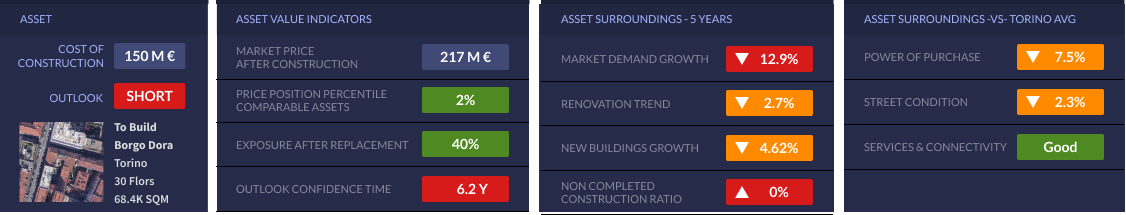
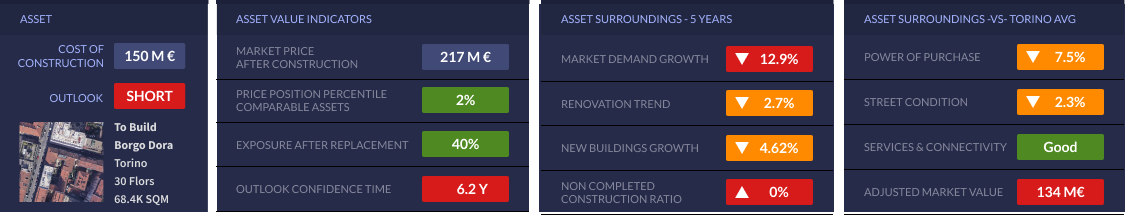
Updates and fixes

Changed region(s): [[0.746, 0.8093, 1.0, 1.0]]

diff --git a/alix-app/src/app/pages/restructuring/restructuring-detail/restructuring-detail.component.html b/alix-app/src/app/pages/restructuring/restructuring-detail/restructuring-detail.component.html
@@ -310,8 +310,8 @@
             <div class="restructuring-list">
               <div class="list-header">
                 <div class="title">Restructuring Assets Portfolio</div>
-                <div class="current-exposure">Current Exposure</div>
-                <div class="outlook">Outlook</div>
+                <div class="current-exposure">Market<br>Value</div>
+                <div class="outlook">Adjusted Market Value</div>
               </div>
               <div class="list-content">
                 <accordion>
@@ -321,11 +321,11 @@
                       <div class="title">30 Floors Borgo Dora > To build</div>
                       <div class="position">CPEO-14423</div>
                       <div class="current-exposure">
-                        <div class="val">98</div>
+                        <div class="val">217</div>
                         <div class="small">M€</div>
                       </div>
                       <div class="margin">
-                        <div class="val">98</div>
+                        <div class="val">134</div>
                         <div class="small">M€</div>
                       </div>
                       <div class="lab red">Short</div>
@@ -347,7 +347,7 @@
                         <div class="small">M€</div>
                       </div>
                       <div class="margin">
-                        <div class="val">7.1</div>
+                        <div class="val">132.1</div>
                         <div class="small">M€</div>
                       </div>
                       <div class="lab green">Long</div>
@@ -369,7 +369,7 @@
                         <div class="small">M€</div>
                       </div>
                       <div class="margin">
-                        <div class="val">5.2</div>
+                        <div class="val">61.2</div>
                         <div class="small">M€</div>
                       </div>
                       <div class="lab red">Short</div>

diff --git a/alix-app/src/app/shared/subheader/subheader.component.html b/alix-app/src/app/shared/subheader/subheader.component.html
@@ -8,7 +8,7 @@
   <div class="navbar__right">
     <!-- <a *ngIf="!isUnderwriter && !isSimulation" class="btn btn-ghost-lightest" [routerLink]="['match']" routerLinkActive="active">Match</a> -->
     <a *ngIf="!isSimulation" class="btn btn-ghost-lightest" [routerLink]="['financial']" routerLinkActive="active">Financial</a>
-    <a *ngIf="isUnderwriter && !isSimulation" class="btn btn-ghost-lightest" [routerLink]="['performance']" routerLinkActive="active">Performance</a>
+    <a *ngIf="isUnderwriter && !isSimulation || isRetail" class="btn btn-ghost-lightest" [routerLink]="['performance']" routerLinkActive="active">Performance</a>
     <a *ngIf="isRealEstate && !isUnderwriter && !isSimulation" class="btn btn-ghost-lightest" [routerLink]="['state-of-conservation']" routerLinkActive="active">State of Conservation</a>
     <a *ngIf="isRealEstate && !isUnderwriter && !isSimulation" class="btn btn-ghost-lightest" [routerLink]="['demand-offer']" routerLinkActive="active">Demand & Offer</a>
     <a *ngIf="!isSimulation" class="btn btn-ghost-lightest" [routerLink]="['location']" routerLinkActive="active">Location</a>

diff --git a/alix-app/src/app/pages/login/login.component.ts b/alix-app/src/app/pages/login/login.component.ts
@@ -45,7 +45,7 @@ export class LoginComponent implements OnInit {
     // page type
     if (this.loginEmailValue.includes('paolo@')) { this.localData.setPageType('underwriter'); }
     if (this.loginEmailValue.includes('daniel@')) { this.localData.setPageType('monitor'); }
-    if (this.loginEmailValue.includes('diletta@')) { this.localData.setPageType('underwriter'); }
+    if (this.loginEmailValue.includes('pietra@')) { this.localData.setPageType('underwriter'); }
 
     // page brand
     for (const brand of this.brands) {

diff --git a/alix-app/src/app/services/localdata.service.ts b/alix-app/src/app/services/localdata.service.ts
@@ -35,7 +35,7 @@ export class LocaldataService {
       if (routeUrl) {
         if (routeUrl.includes('monitor')) { this.setPageType('monitor'); }
         if (routeUrl.includes('underwriter')) { this.setPageType('underwriter'); }
-        if (routeUrl.includes('underwriter') && this.getPageEmail().includes('diletta')) { this.setPageType('underwriter-g'); }
+        if (routeUrl.includes('underwriter') && this.getPageEmail().includes('pietra')) { this.setPageType('underwriter-g'); }
       }
     });
   }

diff --git a/alix-app/src/app/shared/user-menu/user-menu.component.ts b/alix-app/src/app/shared/user-menu/user-menu.component.ts
@@ -23,8 +23,8 @@ export class UserMenuComponent implements OnInit {
       this.user = 'daniel';
     } else if (this.localData.getPageEmail().includes('paolo@')) {
       this.user = 'paolo';
-    } else if (this.localData.getPageEmail().includes('diletta@')) {
-      this.user = 'diletta';
+    } else if (this.localData.getPageEmail().includes('pietra@')) {
+      this.user = 'pietra';
     } else {
       this.user = 'andre';
     }

diff --git a/alix-app/src/app/pages/dashboard/dashboard.component.html b/alix-app/src/app/pages/dashboard/dashboard.component.html
@@ -86,7 +86,7 @@
           <div class="col">
             <div class="row">
               <div class="col">
-                <app-dropdown [config]="[{id: 0, value: 'ALL STATUS'}]"></app-dropdown>
+                <app-dropdown [config]="[{id: 0, value: 'All Status'}]"></app-dropdown>
               </div>
             </div>
             <div class="row">

diff --git a/alix-app/src/app/pages/simulations/match/match.component.ts b/alix-app/src/app/pages/simulations/match/match.component.ts
@@ -39,7 +39,7 @@ export class MatchComponent implements OnInit {
         this.imageShow = 'match_71';
       }
 
-      if (this.localData.getPageEmail().includes('diletta@')) {
+      if (this.localData.getPageEmail().includes('pietra@')) {
         // console.log('match_g');
         this.imageShow = 'match_g';
       }
